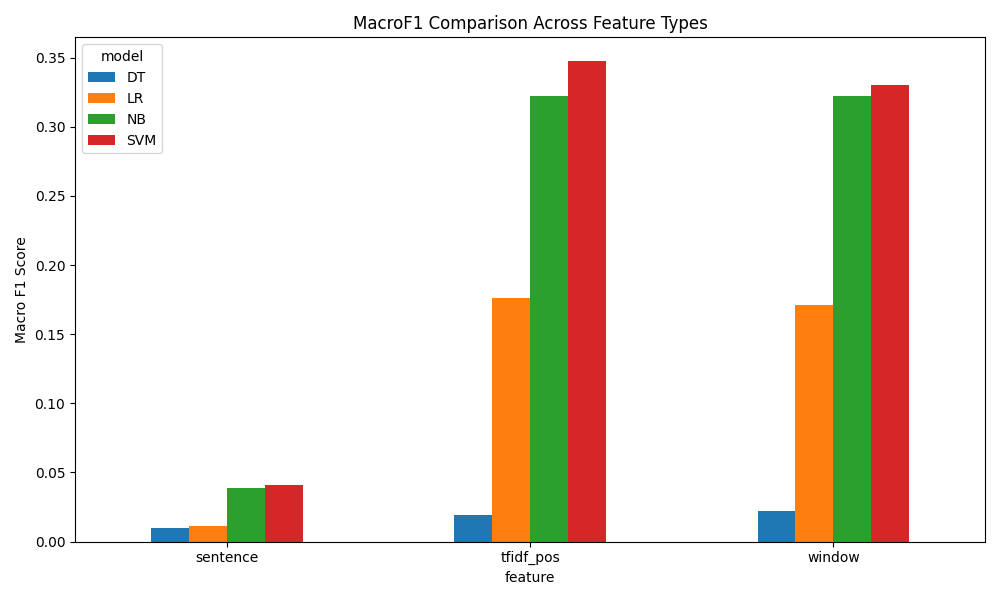
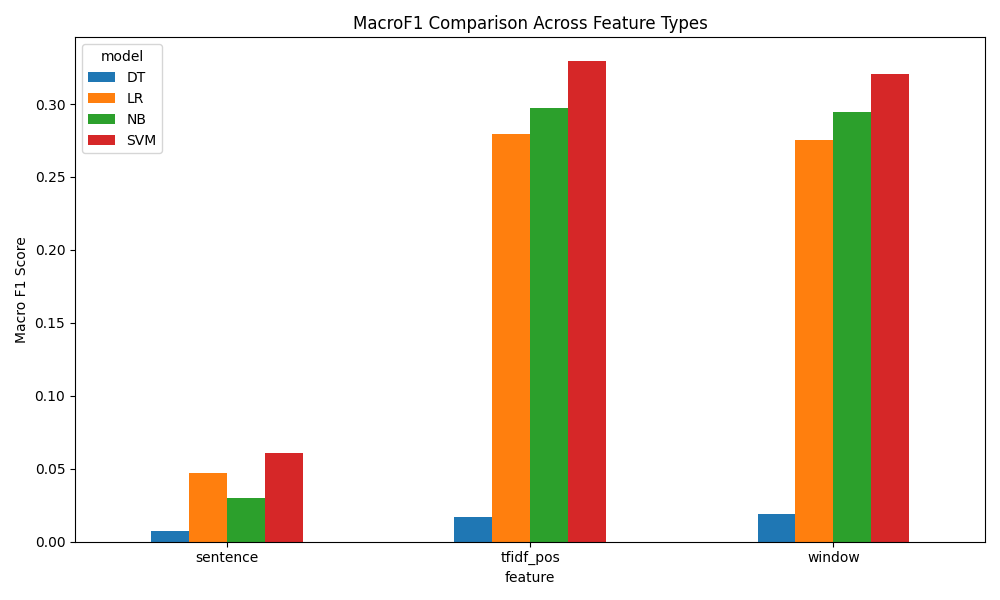
results storing

diff --git a/feature_compare.py b/feature_compare.py
@@ -6,8 +6,12 @@ from sklearn.feature_extraction.text import TfidfVectorizer
 from sklearn.metrics import accuracy_score, f1_score, recall_score, cohen_kappa_score
 from sklearn.svm import LinearSVC
 from sklearn.linear_model import LogisticRegression
+from sklearn.utils.class_weight import compute_class_weight
 from sklearn.naive_bayes import ComplementNB
 from sklearn.tree import DecisionTreeClassifier
+from sklearn.linear_model import SGDClassifier
+import numpy as np
+from tqdm import tqdm
 
 BASE_DIR = os.path.dirname(os.path.abspath(__file__))
 CSV_FILE = os.path.join(BASE_DIR, "wsd_dataset_semcor.csv")
@@ -15,8 +19,6 @@ RESULTS_FILE = os.path.join(BASE_DIR, "results", "feature_comparison_results.csv
 
 os.makedirs(os.path.join(BASE_DIR, "results"), exist_ok=True)
 
-
-# Load dataset
 df = pd.read_csv(CSV_FILE)
 df = df.dropna(subset=["sense", "lemma"])
 
@@ -24,28 +26,32 @@ sense_counts = df["sense"].value_counts()
 df = df[df["sense"].isin(sense_counts[sense_counts >= 10].index)]
 
 df = df.sample(15000, random_state=42)  # Reduce to 15k samples
-MAX_FEATURES = 20000                    # Reduce TF-IDF dim
+MAX_FEATURES = 20000  # Reduce TF-IDF dim
 
 sense_counts = df["sense"].value_counts()
 df = df[df["sense"].isin(sense_counts[sense_counts >= 2].index)]
 
+
 def build_window_features(df):
     return (
-        df["context_before_words"].fillna("") + " " +
-        df["target_word"].fillna("") + " " +
-        df["context_after_words"].fillna("")
+            df["context_before_words"].fillna("") + " " +
+            df["target_word"].fillna("") + " " +
+            df["context_after_words"].fillna("")
     )
+
 
 def build_sentence_features(df):
     return df["sentence_words"].fillna("")
 
+
 def build_pos_augmented(df):
     return (
-        df["context_before_words"].fillna("") + " " +
-        df["target_word"].fillna("") + " " +
-        df["context_after_words"].fillna("") + " " +
-        df["sentence_pos"].fillna("")
+            df["context_before_words"].fillna("") + " " +
+            df["target_word"].fillna("") + " " +
+            df["context_after_words"].fillna("") + " " +
+            df["sentence_pos"].fillna("")
     )
+
 
 FEATURES = {
     "window": build_window_features,
@@ -56,8 +62,7 @@ FEATURES = {
 MODELS = {
     "NB": ComplementNB(alpha=1.0),
     "SVM": LinearSVC(class_weight="balanced", loss="squared_hinge", C=0.5, dual=False),
-    "LR": LogisticRegression(max_iter=2000, class_weight="balanced",
-                             solver="saga", penalty="l2", C=2.0, n_jobs=1),
+    "LR": LogisticRegression(solver='saga',penalty='l2',C=1.0,max_iter=100,class_weight='balanced',n_jobs=-1,random_state=42,tol=1e-3,warm_start=False),
     "DT": DecisionTreeClassifier(max_depth=50, min_samples_split=5, min_samples_leaf=1),
 }
 
@@ -69,7 +74,7 @@ for feat_name, feat_func in FEATURES.items():
     X = feat_func(df)
     y = df["sense"]
 
-    vectorizer = TfidfVectorizer(lowercase=True, ngram_range=(1,1),
+    vectorizer = TfidfVectorizer(lowercase=True, ngram_range=(1, 1),
                                  min_df=3, sublinear_tf=True, max_features=MAX_FEATURES)
     X_vec = vectorizer.fit_transform(X)
 
@@ -77,6 +82,11 @@ for feat_name, feat_func in FEATURES.items():
     X_train, X_test, y_train, y_test = train_test_split(
         X_vec, y, test_size=0.2, random_state=42, stratify=y
     )
+
+    classes = np.unique(y_train)
+    weights = compute_class_weight(class_weight='balanced', classes=classes, y=y_train)
+    class_weight_dict = {cls: w for cls, w in zip(classes, weights)}
+    sample_weights = np.array([class_weight_dict[label] for label in y_train])
 
     # Model training loop
     for tag, model in MODELS.items():
@@ -100,4 +110,3 @@ for feat_name, feat_func in FEATURES.items():
 # Save results
 pd.DataFrame(rows).to_csv(RESULTS_FILE, index=False)
 print("\nFeature comparison results saved to:", RESULTS_FILE)
-

diff --git a/graphical_compare.py b/graphical_compare.py
@@ -121,39 +121,4 @@ heatmap_path = os.path.join(STORE_DIR, "feature_model_heatmap.png")
 plt.savefig(heatmap_path)
 plt.close()
 
-default_path = os.path.join(RESULTS_DIR, "model_comparison_summary.csv")
-tuned_path = os.path.join(RESULTS_DIR, "tuned_model_summary.csv")
-
-if not os.path.exists(default_path):
-    raise FileNotFoundError("Run compare.py first to generate model_comparison_summary.csv")
-if not os.path.exists(tuned_path):
-    raise FileNotFoundError("Run tuning.py first to generate tuned_model_summary.csv")
-
-default_df = pd.read_csv(default_path)
-tuned_df = pd.read_csv(tuned_path)
-
-# Prepare combined dataset
-default_df["type"] = "Default"
-tuned_df["type"] = "Tuned"
-combined = pd.concat([default_df, tuned_df], ignore_index=True)
-
-# Plot
-plt.figure(figsize=(10,6))
-bar_width = 0.35
-index = np.arange(len(default_df["model"]))
-
-plt.bar(index, default_df["macroF1"], bar_width, label="Default")
-plt.bar(index + bar_width, tuned_df["macroF1"], bar_width, label="Tuned")
-
-plt.xticks(index + bar_width / 2, default_df["model"], fontsize=12)
-plt.ylabel("Macro F1 Score")
-plt.title("Default vs Tuned Model Performance (Macro F1)", fontsize=16)
-plt.legend()
-plt.tight_layout()
-
-output_img = os.path.join(STORE_DIR, "default_vs_tuned_macroF1.png")
-plt.savefig(output_img)
-plt.close()
-
-
 print("All visualizations saved to /results/imgs")
